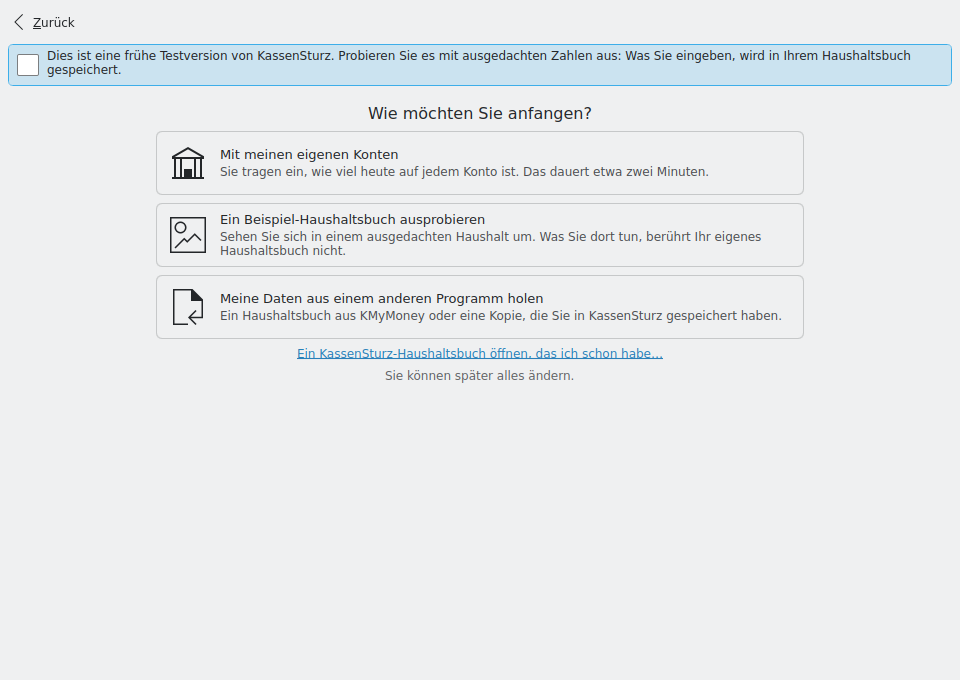
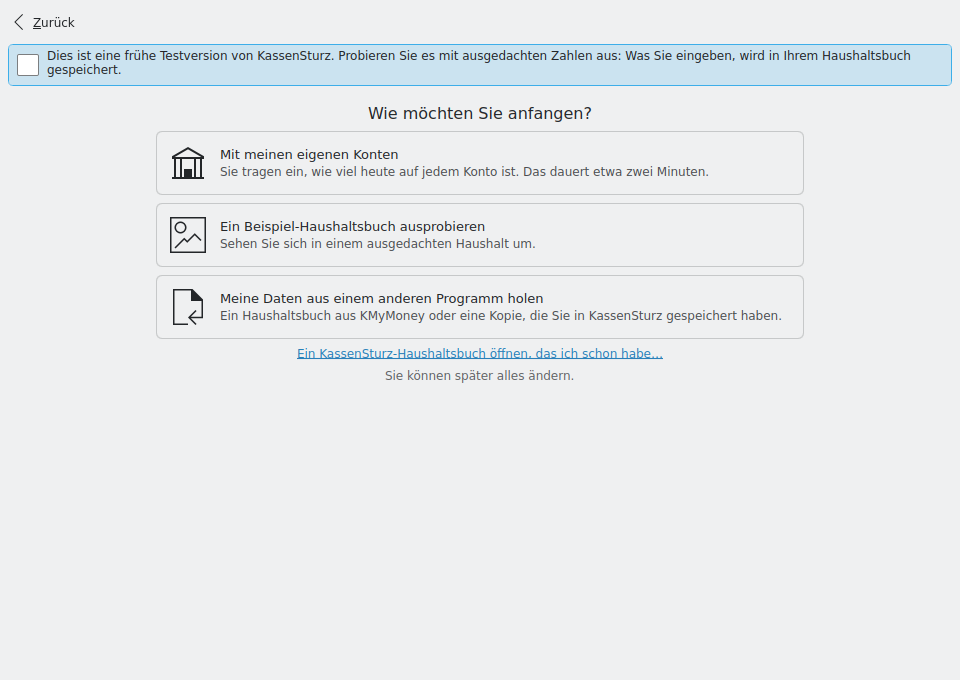
docs: the example becomes the book in the setup wizard (Q-399)
The maintainer decided (Q-399) that in a test there is no separate own
data: the chosen example fills the open, empty book, as the existing
start-from-a-file pages do. The separate copy and the start-my-own-book
banner are dropped. Mocks 2 and 3a are updated to match. All five open
questions are now answered.

Claude-Session: https://claude.ai/code/session_0169cYHjYcsQ9t7Sib6NkFRi

Changed region(s): [[0.2188, 0.3088, 0.7812, 0.4015]]

diff --git a/docs/SETUP_WIZARD.md b/docs/SETUP_WIZARD.md
@@ -19,7 +19,7 @@ The wizard is what a new person sees the first time KassenSturz opens a book tha
 1 Welcome: language and currency
         │
 2 How would you like to start?
-   ├── Try an example book ─────────► 3a Example book chooser (M7a.2) ─► overview of the example copy
+   ├── Try an example book ─────────► 3a Example book chooser (M7a.2) ─► overview of the example book
    ├── My own accounts ─────────────► 3b Your accounts ─► 4 How do new entries get in? ─► 5 overview, first look
    │                                                         ├── I'll type them myself
    │                                                         ├── Import a file from my bank ─► existing import pages
@@ -49,7 +49,7 @@ Three large choices of equal weight, each with one line under it:
 | Choice | Line under it |
 |---|---|
 | **My own accounts** | Type how much is in each account today. Takes about two minutes. |
-| **Try an example book** | Look around in a made-up household. Nothing you do there touches your own book. |
+| **Try an example book** | Look around in a made-up household. |
 | **Bring my data from another program** | A KMyMoney book, or a copy you saved from KassenSturz. |
 
 Below them a small link, **Open a KassenSturz book I already have…**, for someone whose book is on another drive or came from another computer. The footer says "You can change everything later." Which choice comes first is open question Q-396.
@@ -61,8 +61,7 @@ Below them a small link, **Open a KassenSturz book I already have…**, for some
 This page *is* M7a.2's chooser component, placed by the wizard; M7a.2 owns the component and its bridge call, the wizard owns the page around it and what happens after.
 
 - The four books, each with a one-line description in the UI language: **Suburban Family** (marked "Good to start with" and preselected), **Flower Utopia**, **Space Colony**, **UdSSR Government Agent**. Their German names come from M7a.8.
-- **Open example** builds a new, clearly named copy (for example `Beispiel – Vorstadtfamilie.ksz` next to the user's own book) through the existing importer and opens it; the bundled originals and the user's own empty book stay untouched.
-- **An example book always says it is one:** a banner on its overview reads "This is an example household with made-up figures." with the button **Start my own book**, which opens the user's own book, still empty, so the wizard starts there at page 1. That is the way back from trying to real use (open question Q-399).
+- **Open example** fills the open, still empty book with the chosen example through the existing importer, in one go, and shows its overview. The bundled originals stay untouched. There is no separate copy and no "your own book" next to it: in a test, the example *is* the book (Q-399).
 
 ### Page 3b: Your accounts (`3b-accounts.png`)
 
@@ -122,7 +121,7 @@ The real overview, with one dismissible message at the top, shown only in the se
 | Moment | What is saved |
 |---|---|
 | Page 1, a different language | Only the existing app setting `Language` (D-127), then the restart. The book is untouched. |
-| Page 3a, *Open example* | A new example file; the user's own book is untouched and stays empty. |
+| Page 3a, *Open example* | The chosen example, written into the open empty book in one go, as the existing "Start a book from a file" pages do. |
 | Page 3b, *Create my household book* | In **one user action** (`Book::as_one_action`): the currency, the default categories, every account and its starting balance. Either all of it is in the book or none of it. One undo takes the whole first setup back, and the wizard shows again. |
 | Path 3c | What the existing "Start a book from a file" pages save today, all at once, and only after the user confirms. |
 | Page 4 choices | What the existing import and bank pages save, each after its own confirmation. |
@@ -132,7 +131,6 @@ The real overview, with one dismissible message at the top, shown only in the se
 **Skipping.** There is no "skip" that leaves the user on an empty overview: an empty overview tells a new person nothing. The shortest way through is the three-click path in section 1. Page 4 and the first-look message are the only optional parts, and each is one click away from the overview.
 
 **Coming back.**
-- From an example book: **Start my own book** in its banner (page 3a).
 - A second household: Settings › **Start a new book…** makes a new, empty book, and every empty book opens with the wizard.
 - A book started in the wizard can always be extended later from the normal screens (accounts, import, bank); nothing the wizard does is only possible there.
 
@@ -162,10 +160,10 @@ No new table, column, user action or app setting:
 
 ## 8. Open questions for the maintainer
 
-Asked one at a time in the project chat. Answers so far: **Q-395, Q-396 and Q-397 as recommended (R); Q-398 as recommended plus a gate** (the wizard's bank offer stays switched off until the maintainer has tested the bank flow in the finished app himself). Until a question is answered, the build follows its recommended option.
+Asked one at a time in the project chat. Answers so far: **Q-395, Q-396 and Q-397 as recommended (R); Q-398 as recommended plus a gate** (the wizard's bank offer stays switched off until the maintainer has tested the bank flow in the finished app himself); **Q-399 option B** (the example becomes the book). All five are answered.
 
 - **Q-395 Language change on page 1.** R: restart KassenSturz by itself on *Continue*, since nothing has been typed yet. B: keep D-127's behaviour ("applies the next time you start"), which leaves the rest of the wizard in the old language. C: no language choice in the wizard; Settings only.
 - **Q-396 Order on page 2.** R: "My own accounts" first, the example book second, all three of equal size. B: the example book first, since every tester starts there. C: the example book as the one large button, the others smaller.
 - **Q-397 The first transaction page.** R: drop it from the first start; the first look points to +. B: keep it as an optional page after page 4.
 - **Q-398 Bank in the wizard.** R: offer *Connect to my bank* only after the accounts exist (page 4), reusing the bank setup page unchanged, so this step touches no bank code and stays free of a human gate. B: let a bank connection create the accounts and take their balances from the bank, which saves typing but is new bank code (a human gate, later than M7a).
-- **Q-399 Example books and the user's own book.** R: an example opens as its own copy, the user's own book stays empty, and the example's banner offers *Start my own book*. B: fill the user's own book with the example (one file, but then real use starts from made-up data that has to be cleared first).
+- **Q-399 Example books and the user's own book.** Answered: the example simply becomes the book (option B); a test has no separate "own" data, so there is no copy and no banner.
